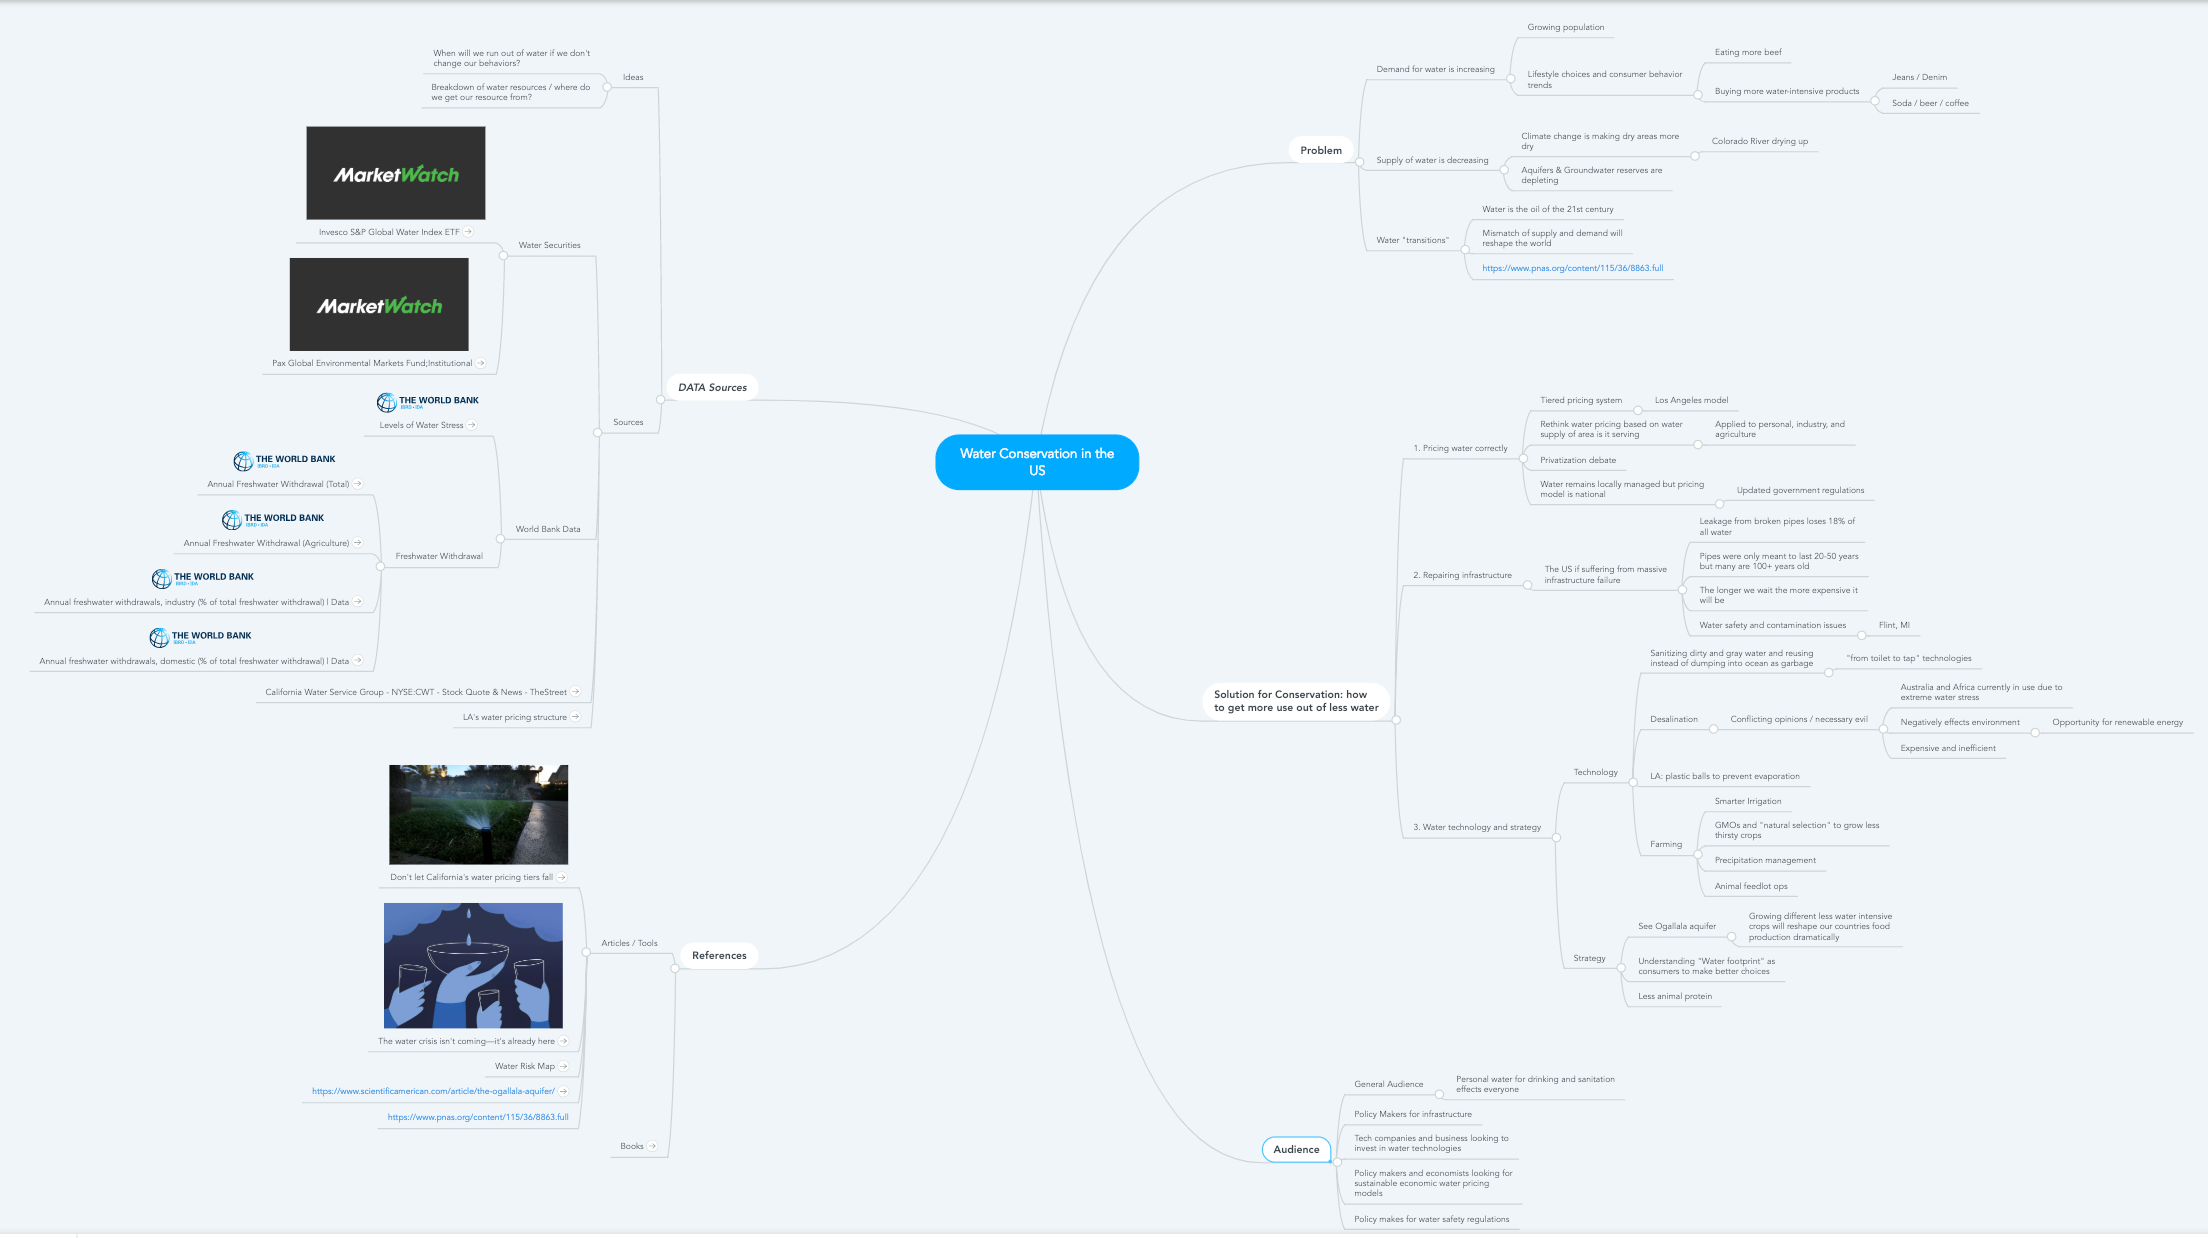
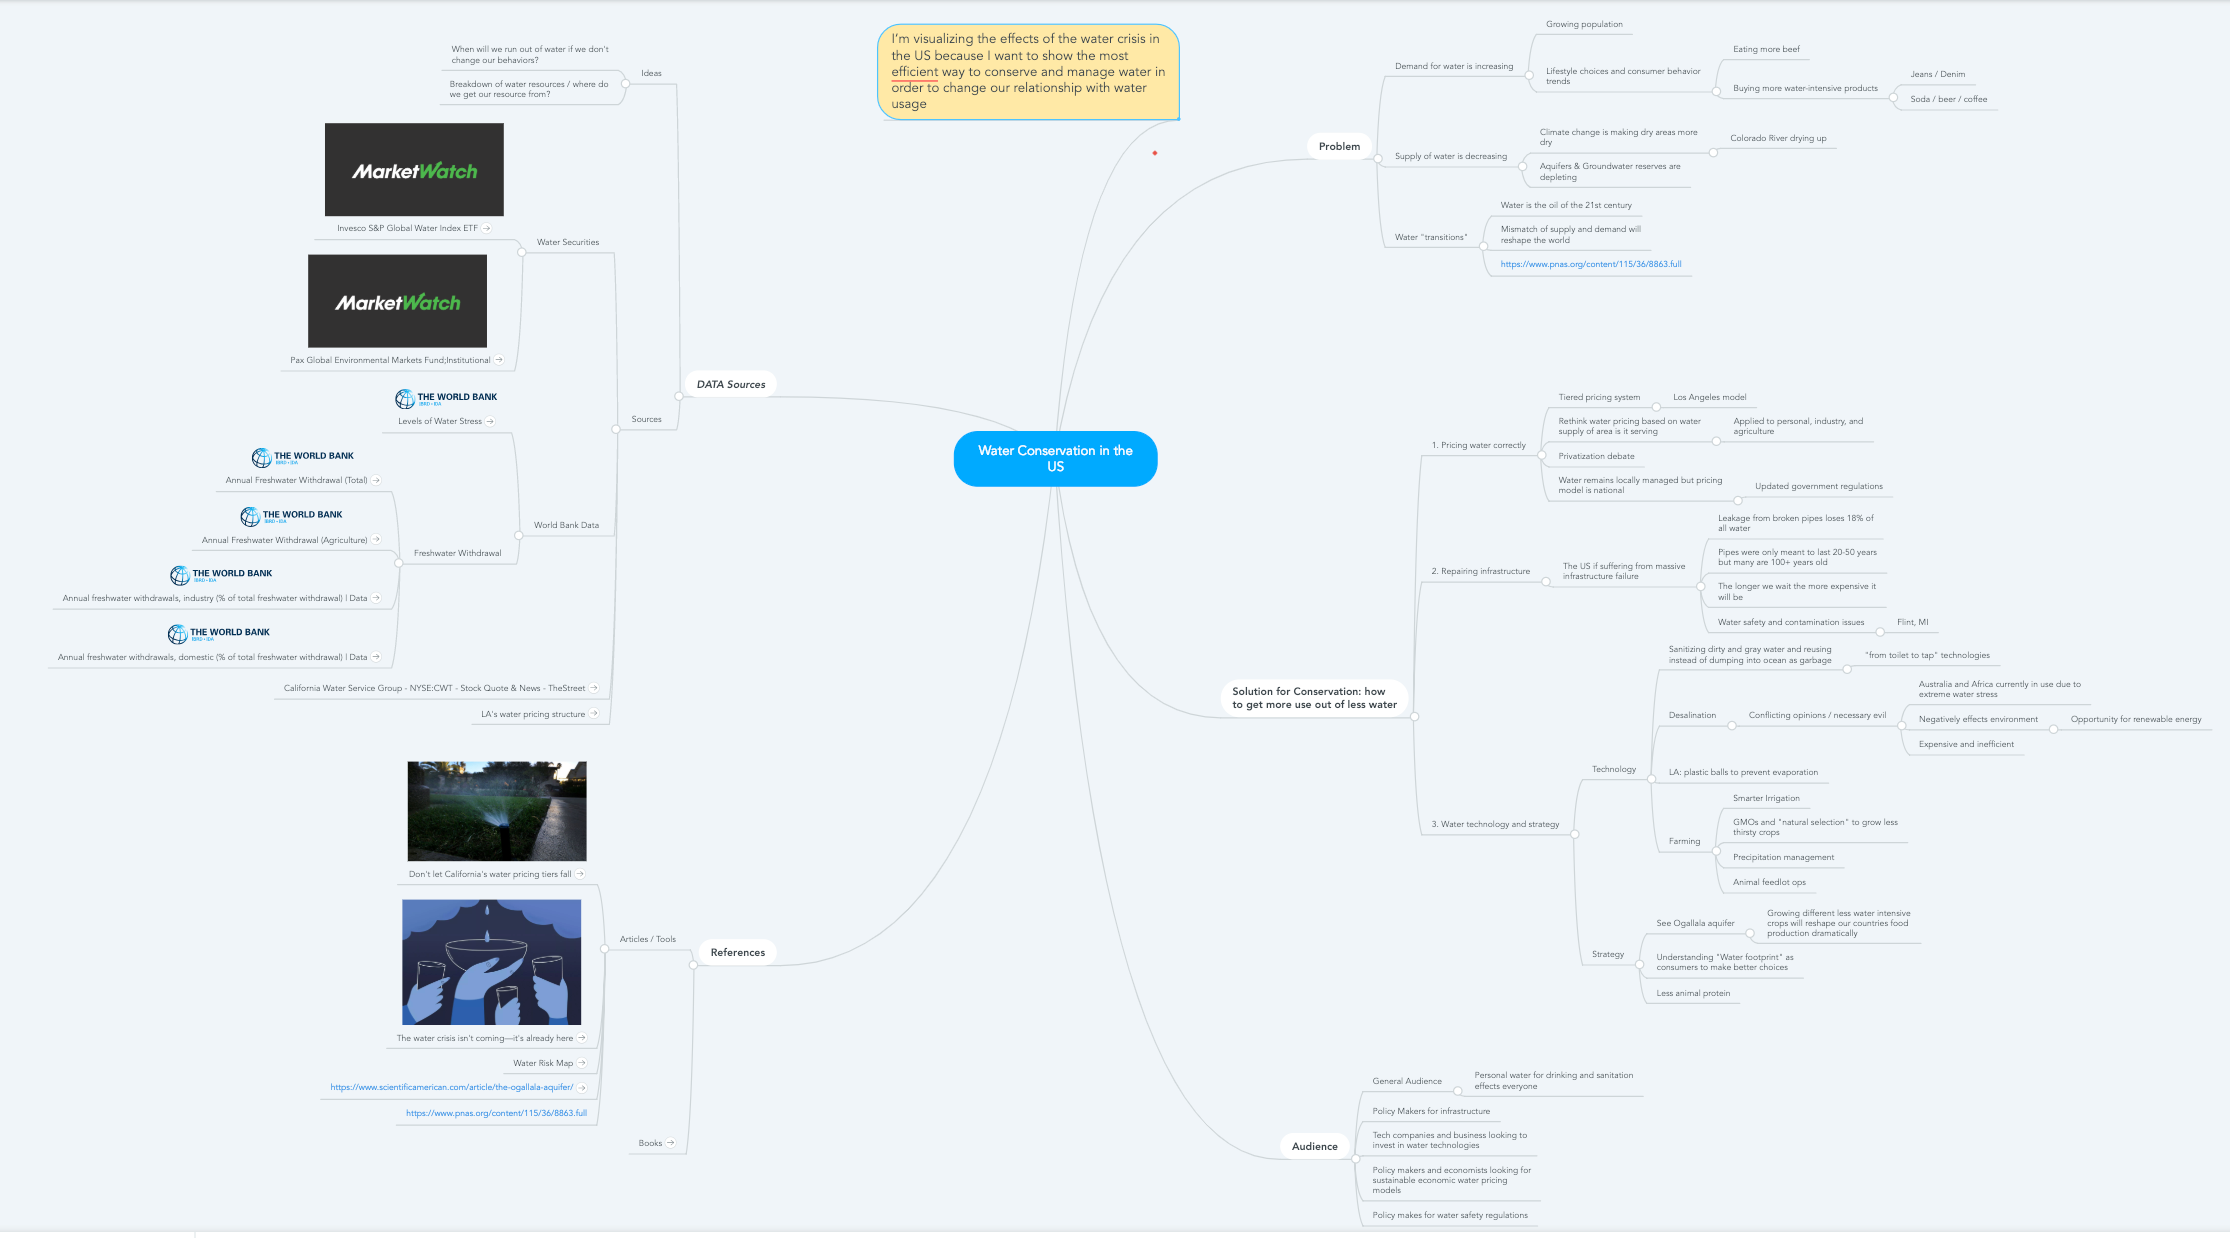
exercise 1 part 3 initial concept text

diff --git a/process/exercise-1/README.md b/process/exercise-1/README.md
@@ -1,0 +1,26 @@
+MindMap: https://www.mindmeister.com/1212385590?t=ILMkfizPXO
+
+--
+
+Exercise 1; Part 3—initial concept
+
+- Who is your audience (persona, demographic or professional group, knowledgeable about context)?
+
+  - Policy makers looking for overview and suggestions on water conservation efforts and funding opportunities
+  - General public concerned with water inefficiency and safety
+
+- How is your audience reading or encounter your project (media, UI, distribution channel, types of devices, spatial context)?
+  - Digital devices: primarily desktop first, mobile and tablet supported
+- What does your project ask of your audience to do (input, involvement, user experience)?
+  - Some reading to understand the problem (demand for water is increasing and supply is also decreasing)
+  - Simulator visualization asks users to adjust inputs and outlook to see model output for water conservation and water stress levels across the country
+    - i.e., climate change outlook, water pricing increase, animal product consumption, infrastructure repairs, technological advances, etc.
+- What does your audience learn and take away from their user experience?
+
+  - The audience will learn what we need to do as a society to get more usage out of less water:
+
+    1. Price water accurately and reasonably
+    1. Rebuild failing infrastructure
+    1. Invest in water technology
+
+  - These measures will change our relationship with water and prepare us for a global water "transition" that shifts the geopolitical landscape in the 21st century.
